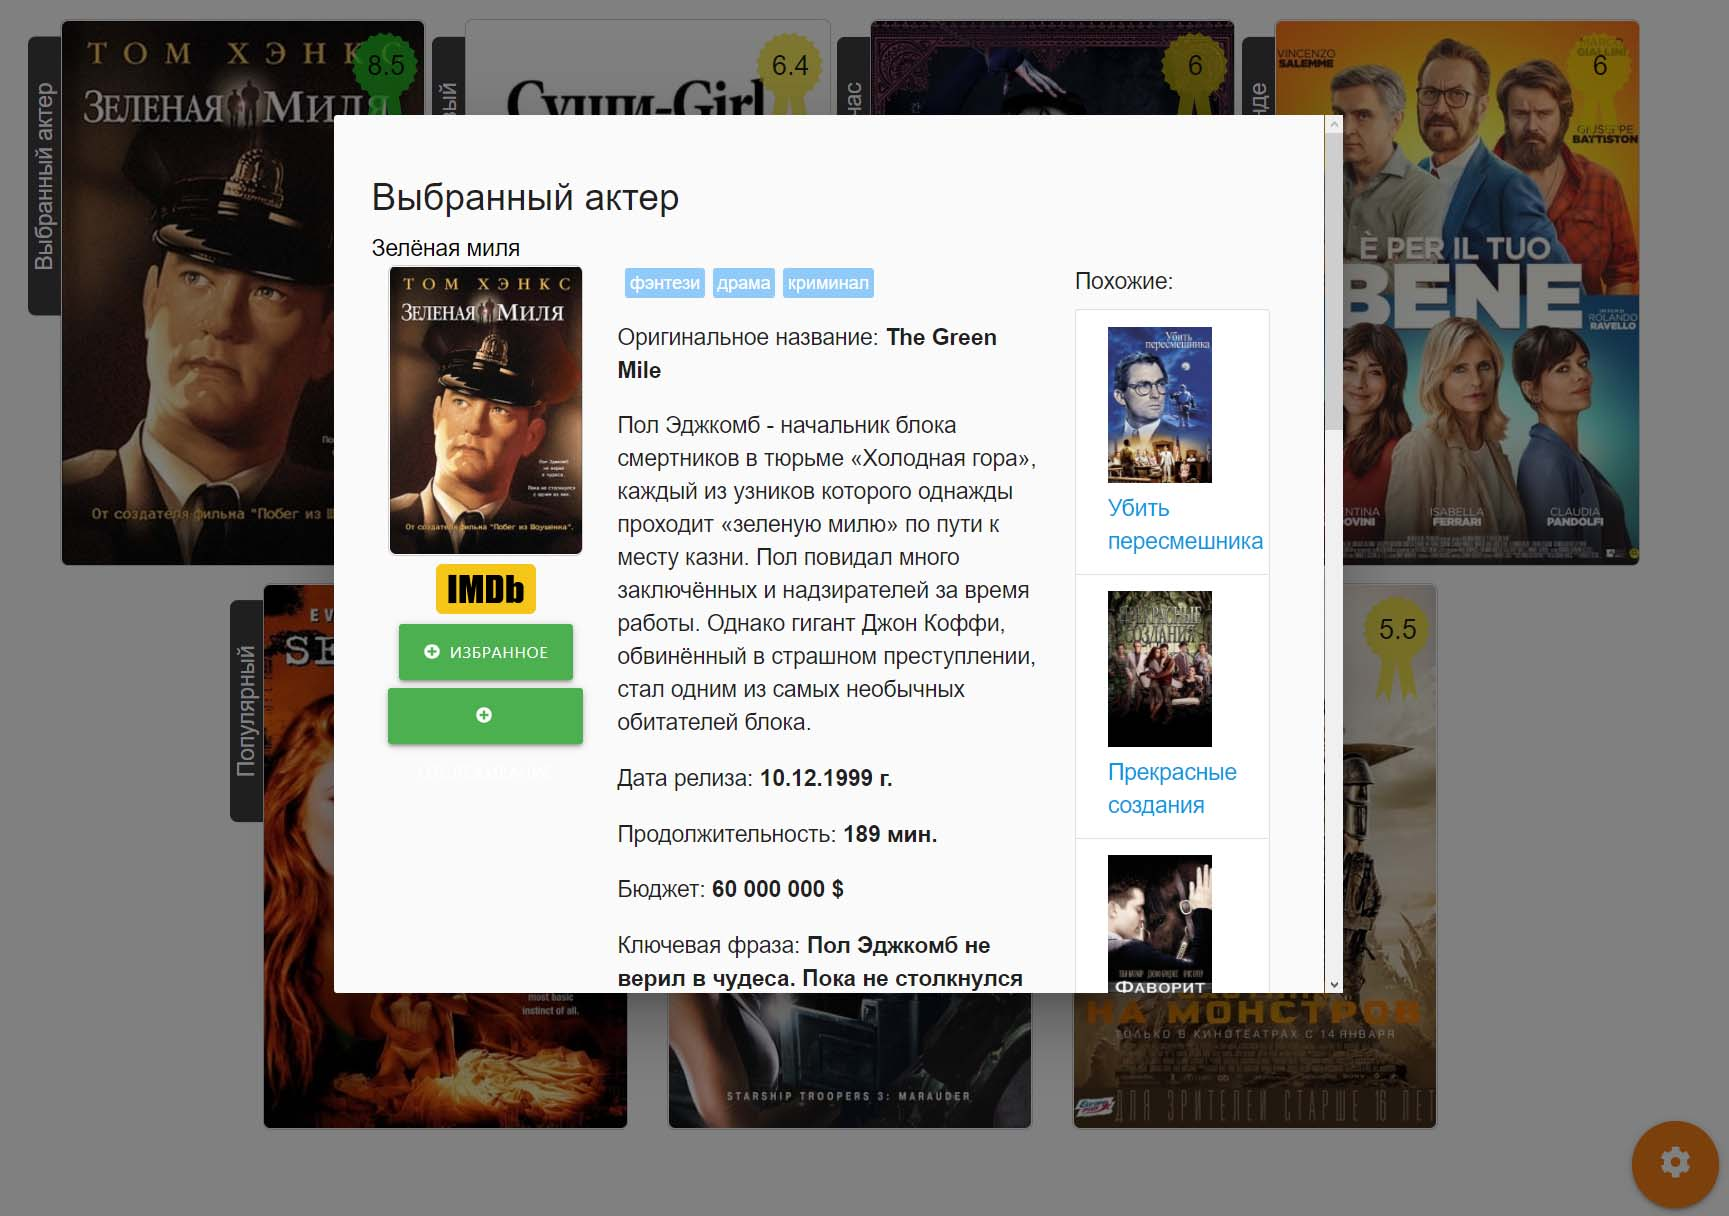
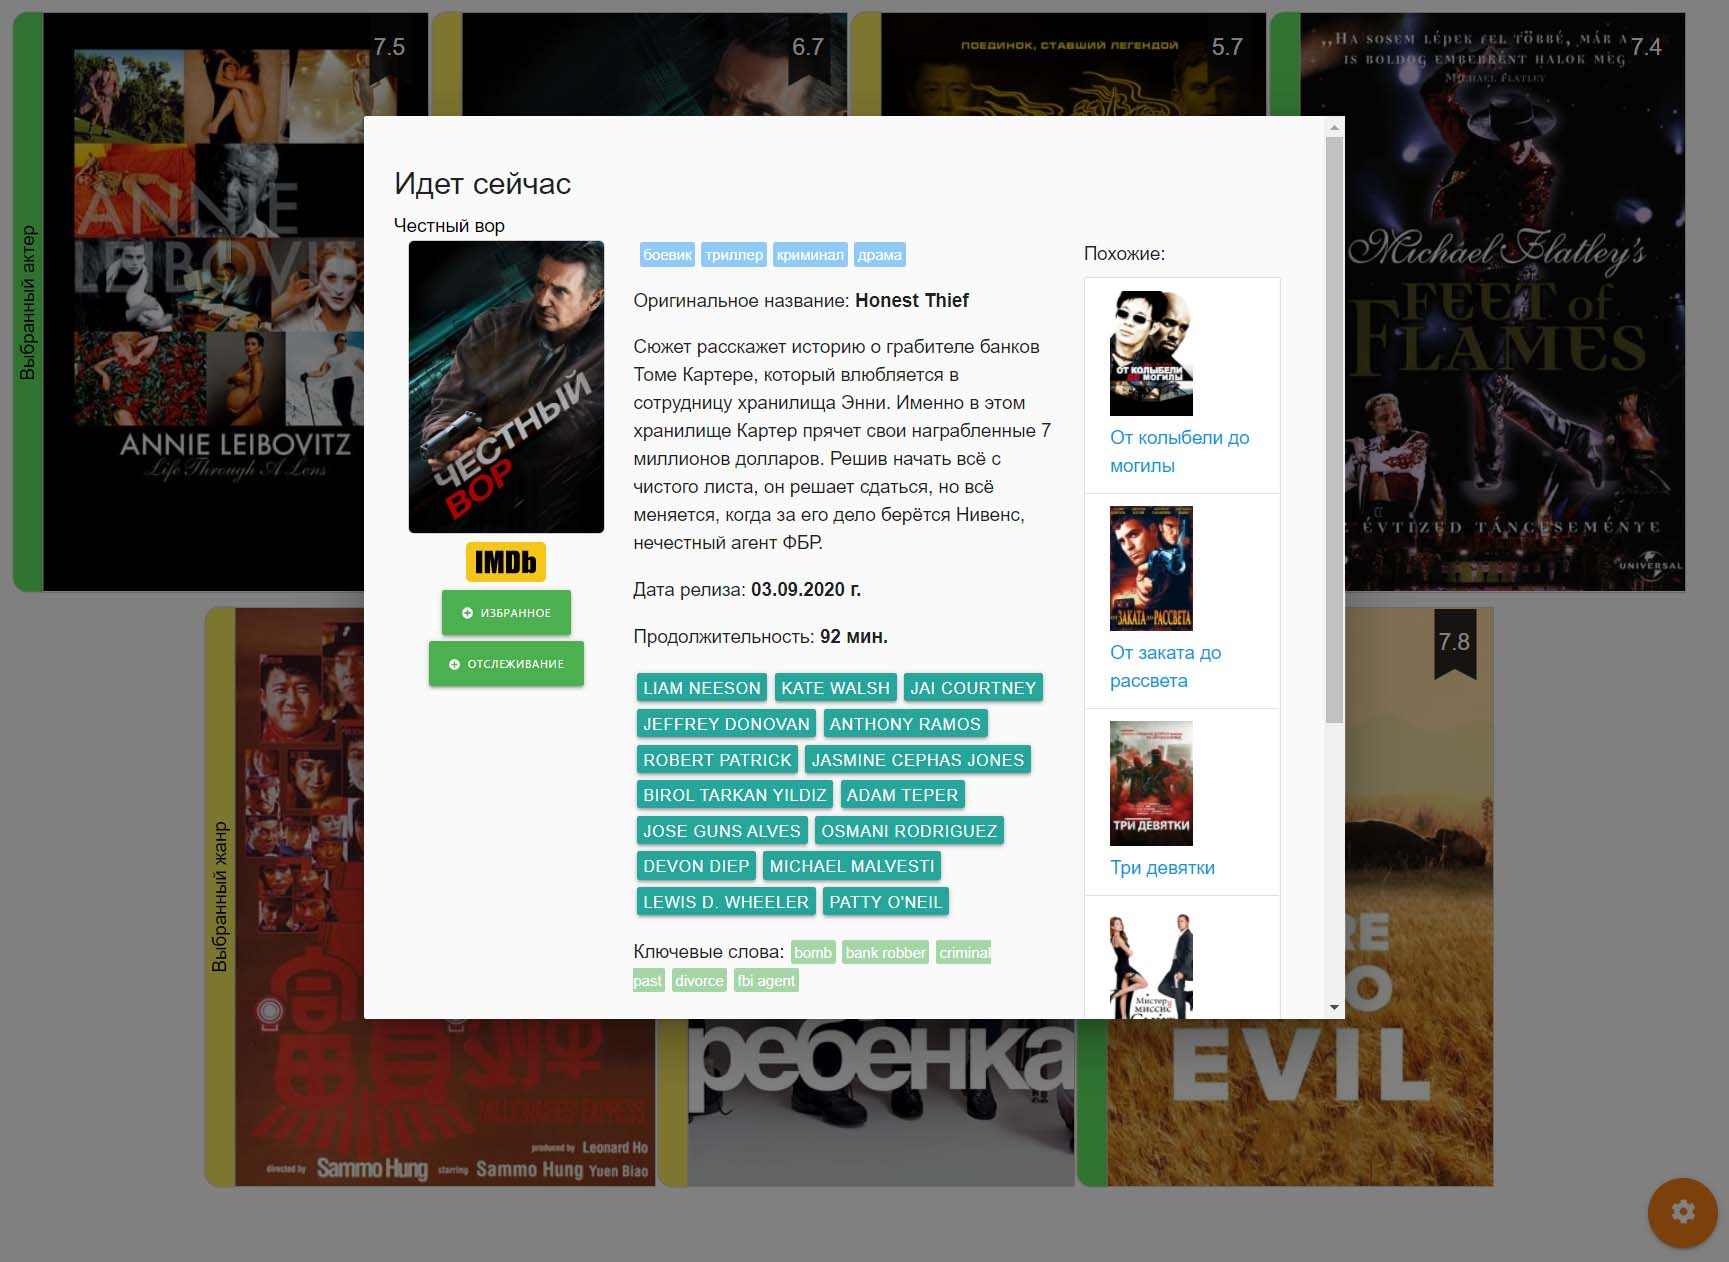
Update main page design

diff --git a/src/components/MovieRate.js b/src/components/MovieRate.js
@@ -1,14 +1,15 @@
 import React, { Component } from 'react';
 
 const MovieRate = ({ moviedata = null, vote_average_color = '#FFFFFF' }) =>
-    <div style={{ fontSize: "1rem", position: "absolute", top: "5px", right: "10px" }}>
+    <div style={{ fontSize: "1rem", position: "absolute", top: "3px", right: "10px" }}>
         {/* {moviedata.block_title} */}
         {/* <div className="lenta">
         </div> */}
-        <div style={{ position: "absolute", top: "0px", right: "0px" }}>
-            <svg xmlns="http://www.w3.org/2000/svg" version="1.0" width="32.000000pt" height="64.000000pt" viewBox="0 0 798.000000 1280.000000" preserveAspectRatio="xMidYMid meet">
-                <g transform="translate(0.000000,1280.000000) scale(0.1000,-0.1000)" fill={vote_average_color} stroke="#ffffff">
-                    <path d="M3114 12546 l-249 -255 -345 60 c-190 32 -348 59 -352 59 -5 0 -80 -143 -167 -319 l-160 -318 -48 -7 c-232 -32 -646 -96 -651 -100 -3 -4 -29 -161 -57 -351 -28 -189 -53 -346 -55 -348 -3 -3 -146 -75 -317 -161 -258 -129 -313 -160 -313 -177 0 -11 25 -169 56 -352 l55 -332 -255 -250 -255 -250 164 -316 165 -315 -165 -315 -165 -314 254 -253 253 -253 -58 -342 c-33 -188 -59 -345 -59 -349 0 -5 144 -80 320 -168 235 -118 320 -165 320 -178 1 -48 98 -674 106 -681 5 -5 164 -31 353 -60 189 -28 345 -52 347 -54 1 -1 72 -145 157 -319 86 -175 157 -318 159 -318 2 0 41 7 87 15 47 8 87 13 89 10 2 -2 -187 -1114 -421 -2472 -233 -1357 -423 -2469 -423 -2470 1 -2 240 283 531 632 290 350 531 637 534 640 4 2 134 -344 290 -768 156 -425 287 -775 290 -779 4 -4 198 1104 431 2462 234 1359 427 2470 430 2470 3 0 196 -1111 430 -2470 233 -1358 427 -2466 431 -2462 3 4 134 354 290 779 156 424 286 770 290 768 3 -3 244 -290 534 -640 291 -349 530 -634 531 -632 0 1 -187 1095 -417 2432 -230 1337 -421 2448 -425 2469 l-6 39 43 -7 c24 -4 63 -10 86 -13 l42 -6 156 314 c87 173 159 316 161 318 4 5 547 86 646 97 66 8 56 -14 88 199 69 466 79 520 91 524 6 2 150 72 319 156 l306 153 -59 351 -59 351 255 253 256 252 -165 314 -165 313 167 317 166 316 -255 250 -256 250 60 345 c32 190 59 348 59 352 0 5 -144 80 -320 168 -176 88 -320 166 -320 173 0 10 -30 217 -84 585 -8 51 -17 96 -20 99 -3 3 -153 28 -333 54 -181 27 -337 51 -348 54 -16 3 -59 82 -175 319 -125 254 -159 315 -175 316 -11 0 -170 -25 -354 -56 l-334 -57 -251 256 -251 256 -314 -164 -314 -165 -310 162 c-171 90 -314 164 -318 166 -4 2 -118 -112 -255 -252z" />
+        <div style={{ position: "absolute", top: "2px", right: "0px" }}>
+            <svg xmlns="http://www.w3.org/2000/svg" version="1.0" width="54.000000pt" height="46.000000pt" viewBox="0 0 965.000000 1280.000000" preserveAspectRatio="xMidYMid meet">
+                <g transform="translate(0.000000,1280.000000) scale(0.1500,-0.1000)" fill="#0a0a0add" stroke="none">
+                    <path d="M2270 6499 c0 -5022 2 -5980 14 -5977 7 2 33 19 57 40 24 20 69 57 99 82 83 69 334 274 405 331 35 28 90 73 123 100 33 28 202 167 377 310 174 143 360 296 414 340 54 44 187 153 297 243 109 90 224 183 254 208 164 137 213 176 223 180 16 6 98 -56 433 -324 677 -541 838 -669 890 -707 30 -22 178 -139 330 -260 152 -121 382 -304 511 -407 129 -104 239 -188 244 -188 5 0 9 2529 9 5995 0 3297 0 5998 0 6003 0 4 -1053 8 -2340 10 l-2340 2 0 -5981z" />
+
                 </g>
             </svg>
         </div>
@@ -20,7 +21,7 @@ const MovieRate = ({ moviedata = null, vote_average_color = '#FFFFFF' }) =>
             {!moviedata.vote_average ? "N/A" : moviedata.vote_average}
         </span> */}
 
-        <div style={{ position: "absolute", top: "17px", right: "6px", minWidth: "2rem", textAlign: 'center' }}>
+        <div style={{ position: "absolute", top: "17px", right: "12px", minWidth: "2rem", textAlign: 'center', color: '#fff' }}>
             <span
                 style={{ fontSize: "1.2rem", height: "1.8rem", paddingTop: "3px" }}>
                 {!moviedata.vote_average ? "N/A" : moviedata.vote_average}

diff --git a/src/App.css b/src/App.css
@@ -12,6 +12,13 @@
 }
 
 .movieimage {
+  width: auto;
+  border: 1px solid #cecece;
+  border-radius: 0px;
+  max-height: 45vh;
+}
+
+.movieimageloader {
   display: inline-block; /* Строчно-блочный элемент */
   position: relative; /* Относительное позиционирование */
   padding-right: 5px;
@@ -19,7 +26,15 @@
   padding-left: 20px;
 }
 
-.movieimage:hover::after {
+.movieimageblock {
+  display: inline-block; /* Строчно-блочный элемент */
+  position: relative; /* Относительное позиционирование */
+  padding-right: 5px;
+  padding-top: 5px;
+  padding-left: 20px;
+}
+
+.movieimageblock:hover::after {
   content: attr(data-title); /* Выводим текст */
   position: absolute; /* Абсолютное позиционирование */
   left: 1px;
@@ -30,10 +45,10 @@
   color: #fff; /* Цвет текста */
   text-align: center; /* Выравнивание текста по центру */
   /* font-family: Arial, sans-serif; Гарнитура шрифта */
-  font-size: 11px; /* Размер текста подсказки */
+  font-size: 14px; /* Размер текста подсказки */
   padding: 5px 10px; /* Поля */
-  border-bottom-right-radius: 5px;
-  border-bottom-left-radius: 5px;
+  border-bottom-right-radius: 0px;
+  border-bottom-left-radius: 0px;
   margin-left: 20px;
 }
 
@@ -42,18 +57,22 @@
   transform: rotate(180deg);
 
   position: absolute; /* Абсолютное позиционирование */
-  top: 16px;
-  left: -1px;
+  top: 5px;
+  left: -3px;
   text-align: center;
 
-  background: rgba(61, 62, 63, 1); /* Полупрозрачный цвет фона */
-  color: #fff; /* Цвет текста */
+  background: rgb(27, 27, 27);
+  color: #000; /* Цвет текста */
 
-  border-top-right-radius: 5px;
-  border-bottom-right-radius: 5px;
-  padding-top: 2rem;
-  padding-bottom: 2rem;
+  border-top-right-radius: 12px;
+  border-bottom-right-radius: 12px;
+  padding-top: 1rem;
+  padding-bottom: 1rem;
 
+  height: 100%;
+  max-height: 45vh;
+
+  border: 1px solid #cecece;
   /* width: 0.7em;
   width: 1ch;
   font: Consolas, Monaco, monospace;

diff --git a/src/components/Movie.js b/src/components/Movie.js
@@ -78,8 +78,8 @@ class Movie extends Component {
 
             return (
                 <div >
-                    <div className="movieimage" data-title={moviedata.title}>
-                        <MovieBlockTitle block_title={moviedata.block_title} />
+                    <div className="movieimageblock" data-title={moviedata.title}>
+                        <MovieBlockTitle block_title={moviedata.block_title} vote_average_color={vote_average_color} />
                         <MovieRate moviedata={moviedata} vote_average_color={vote_average_color} />
                         <MovieImage moviedata={moviedata} id={id} />
                     </div>
@@ -89,9 +89,9 @@ class Movie extends Component {
         }
 
         return (
-            <div className="card blue-grey lighten-5">
-                <div className="card-content">
-                    <h5>{this.state.placeholder}</h5>
+            <div >
+                <div className="movieimageloader" data-title="">
+                    {/* <h5>{this.state.placeholder}</h5> */}
                     <div className="preloader-wrapper big active">
                         <div className="spinner-layer spinner-blue-only">
                             <div className="circle-clipper left">

diff --git a/src/components/MovieImage.js b/src/components/MovieImage.js
@@ -4,15 +4,14 @@ import M from 'materialize-css'
 class MovieImage extends Component {
     constructor(props) {
         super(props);
-        this.imageRef = React.createRef();
+        // this.imageRef = React.createRef();
     }
 
-    componentDidMount() {
-        const options = {}
-
-        const image = this.imageRef.current;
-        // M.Tooltip.init(image, options);
-    }
+    // componentDidMount() {
+    // const options = {}
+    // const image = this.imageRef.current;
+    // M.Tooltip.init(image, options);
+    // }
 
     render() {
         const { moviedata, id } = this.props
@@ -22,11 +21,11 @@ class MovieImage extends Component {
             <img
                 data-position="bottom"
                 // data-tooltip={moviedata.block_title + ':<br/>"' + moviedata.title + '"'}
-                ref={this.imageRef}
+                // ref={this.imageRef}
                 src={poster_path}
                 data-target={"modal" + id}
-                className="modal-trigger hoverable"
-                style={{ width: "auto", border: "1px solid #cecece", borderRadius: "5px", maxHeight: "350px" }} />
+                className="modal-trigger movieimage"
+            />
         );
     }
 

diff --git a/src/components/WatchlistButton.js b/src/components/WatchlistButton.js
@@ -51,7 +51,7 @@ class WatchlistButton extends Component {
             <div style={{ marginBottom: "5px" }}>
                 {(session_id !== null) &&
                     <div>
-                        <button className={"btn " + (watchlist ? "red" : "green")} onClick={() => onAddToList(!watchlist)} style={{ fontSize: "0.7rem" }}>
+                        <button className={"btn " + (watchlist ? "red" : "green")} onClick={() => onAddToList(!watchlist)} style={{ fontSize: "0.6rem" }}>
                             <FontAwesomeIcon icon={watchlist ? "minus-circle" : "plus-circle"} />&nbsp;
                             Отслеживание
                         </button>

diff --git a/src/components/FavoriteButton.js b/src/components/FavoriteButton.js
@@ -51,7 +51,7 @@ class FavoriteButton extends Component {
             <div style={{ marginBottom: "5px" }}>
                 {(session_id !== null) &&
                     <div>
-                        <button className={"btn " + (favorite ? "red" : "green")} onClick={() => onAddToList(!favorite)} style={{ fontSize: "0.7rem" }}>
+                        <button className={"btn " + (favorite ? "red" : "green")} onClick={() => onAddToList(!favorite)} style={{ fontSize: "0.6rem" }}>
                             <FontAwesomeIcon icon={favorite ? "minus-circle" : "plus-circle"} />&nbsp;
                             Избранное
                         </button>

diff --git a/src/components/MovieBlockTitle.js b/src/components/MovieBlockTitle.js
@@ -1,7 +1,7 @@
 import React, { Component } from 'react';
 
-const MovieBlockTitle = ({ block_title = '' }) =>
-    <div className="vertical">
+const MovieBlockTitle = ({ block_title = '', vote_average_color = '#rgb(27, 27, 27)' }) =>
+    <div className="vertical" style={{ backgroundColor: vote_average_color }}>
         {block_title}
     </div>
 

diff --git a/README.md b/README.md
@@ -19,3 +19,5 @@ http://localhost:3000/
 ![Экран 1](screenshots/screenshot1.jpg)
 
 ![Экран 2](screenshots/screenshot2.jpg)
+
+![Экран 3](screenshots/screenshot3.jpg)
